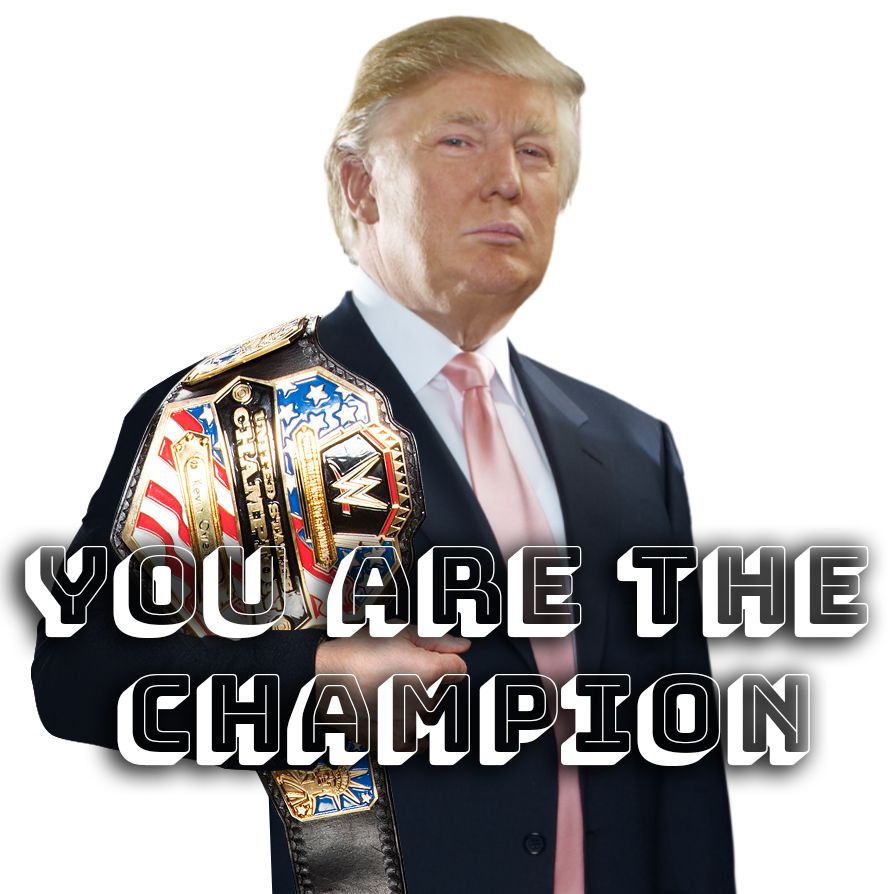
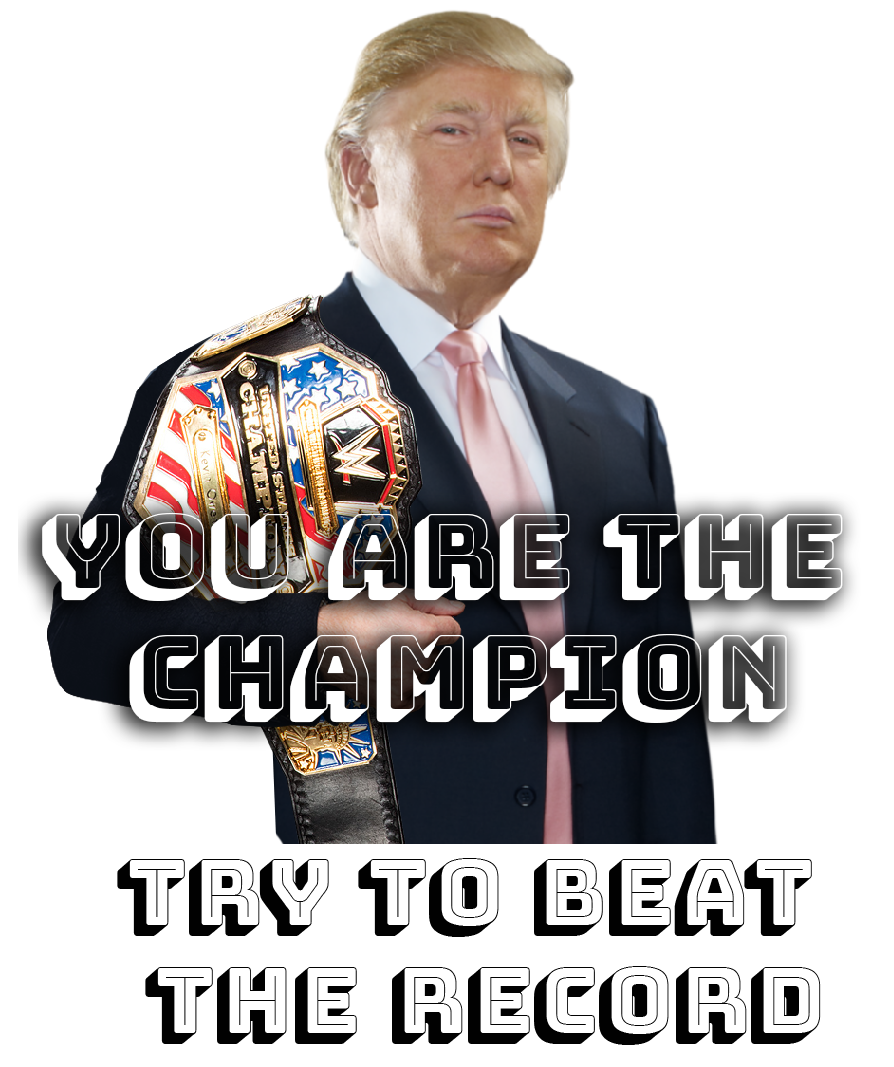
with time

diff --git a/main.js b/main.js
@@ -331,8 +331,8 @@ function draw() {
     textSize(60);
     textFont("Georgia");
     fill("rgb(0,255,0)");
-    image(imgagain, 140, 400, 300, 100);
-    image(imgtrumchamp, 120, 50, 350, 350);
+    image(imgagain, 145, 430, 300, 100);
+    image(imgtrumchamp, 115, 25, 330, 400);
     champions.setVolume(0.3);
     champions.play();
     if (counter < bestTime) {
